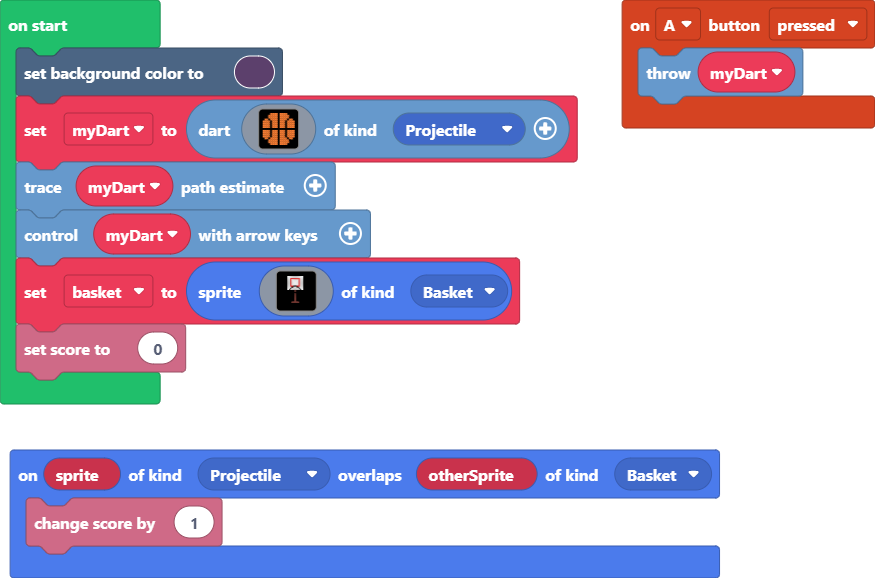
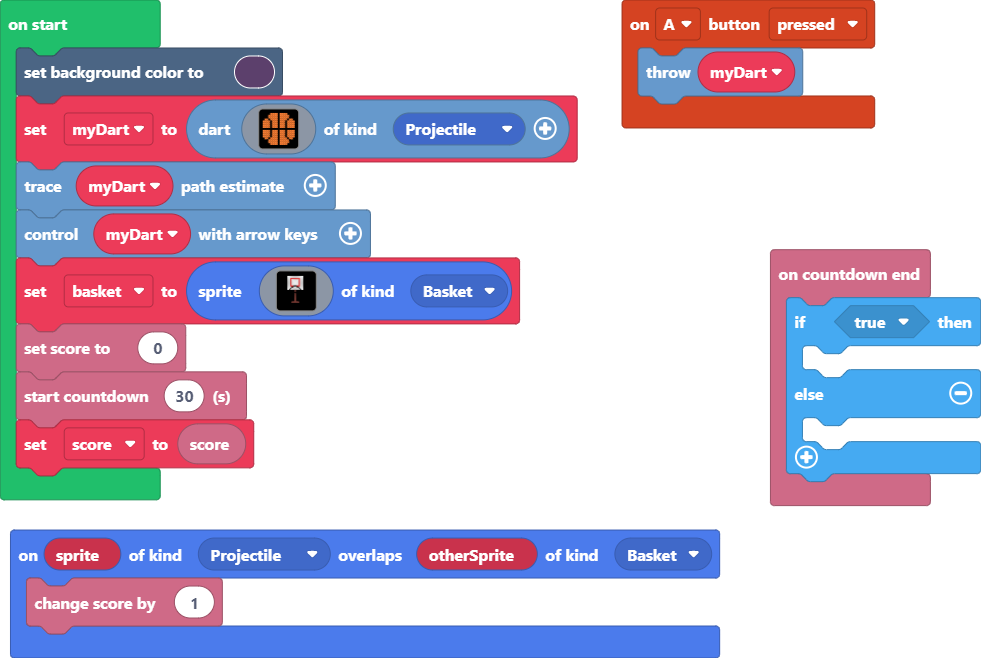
Update pxt.json, main.blocks, main.ts

diff --git a/main.ts b/main.ts
@@ -4,6 +4,13 @@ namespace SpriteKind {
 controller.A.onEvent(ControllerButtonEvent.Pressed, function () {
     myDart.throwDart()
 })
+info.onCountdownEnd(function () {
+    if (true) {
+    	
+    } else {
+    	
+    }
+})
 sprites.onOverlap(SpriteKind.Projectile, SpriteKind.Basket, function (sprite, otherSprite) {
     info.changeScoreBy(1)
 })
@@ -63,3 +70,5 @@ let basket = sprites.create(img`
     ................
     `, SpriteKind.Basket)
 info.setScore(0)
+info.startCountdown(30)
+let score = info.score()
